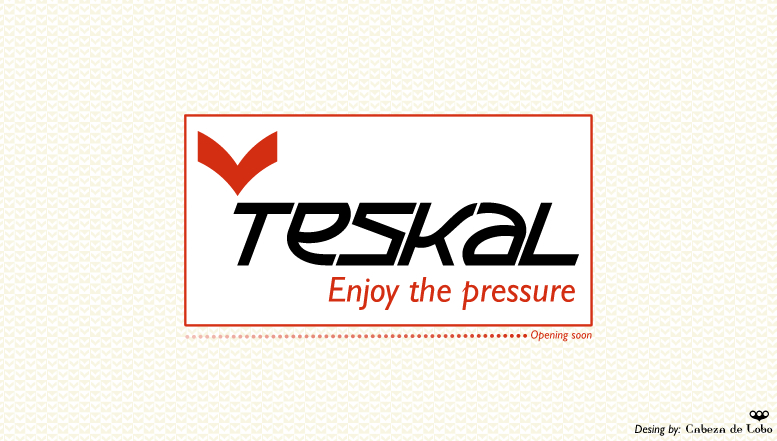
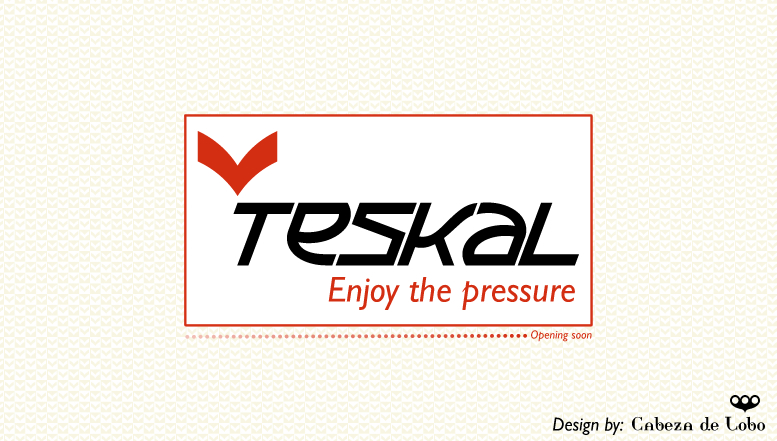
contruccion

Changed region(s): [[0.7104, 0.8844, 1.0, 1.0]]

diff --git a/teskal/trunk/public/index.html b/teskal/trunk/public/index.html
@@ -1,6 +1,6 @@
-<!DOCTYPE html PUBLIC "-//W3C//DTD XHTML 1.0 Transitional//EN" "http://www.w3.org/TR/xhtml1/DTD/xhtml1-transitional.dtd">   
+<!DOCTYPE html PUBLIC "-//W3C//DTD XHTML 1.0 Transitional//EN" "http://www.w3.org/TR/xhtml1/DTD/xhtml1-transitional.dtd"><html xmlns="http://www.w3.org/1999/xhtml">   
  <link rel="shortcut icon" href="http://www.teskal.com/images/favicon.ico" type="image/x-icon" />
-<html xmlns="http://www.w3.org/1999/xhtml">
+
    <meta content="text/html; charset=iso-8859-1"
          http-equiv="Content-Type" />
    <meta content="NEVER"
@@ -23,7 +23,7 @@
 </head>
 
 <body>
-<img src="images/construccion.jpg" width="780" height="478" alt="construction" />
+<a href="www.cabezadelobo.com"><img src="images/construccion.jpg" width="777" height="441" alt="construction" /></a>
 <script src="http://www.google-analytics.com/urchin.js" type="text/javascript">
 </script>
 <script type="text/javascript">
